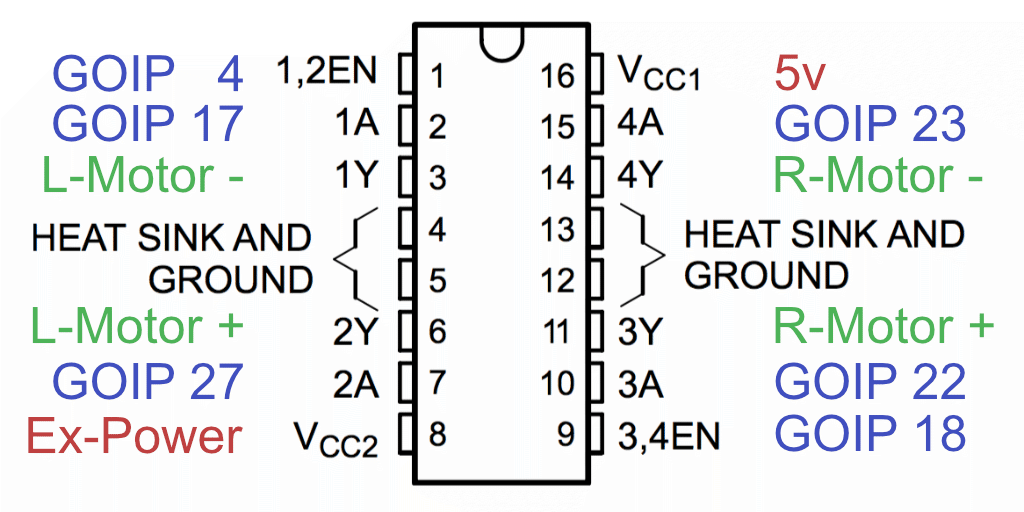
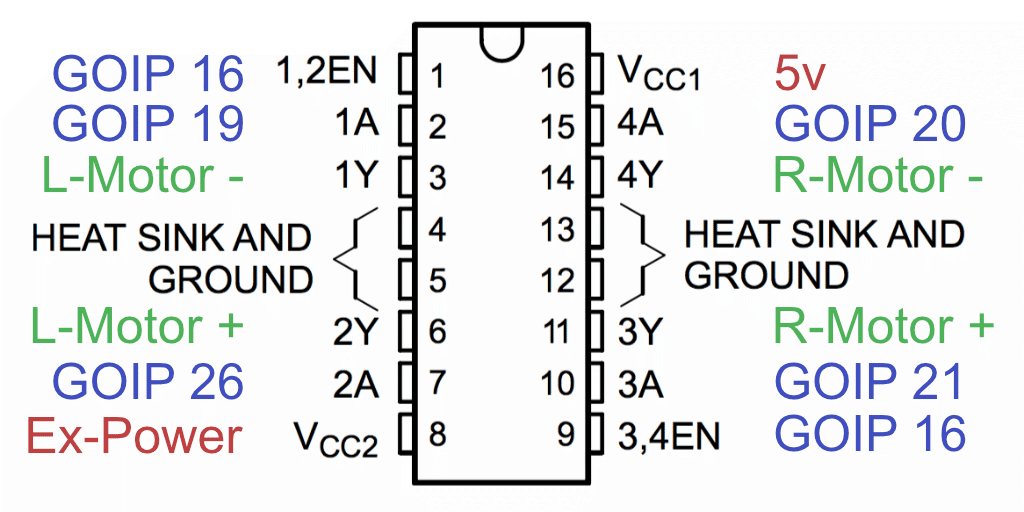
change l239 default wiring

diff --git a/src/pi-tank.js b/src/pi-tank.js
@@ -1,9 +1,10 @@
-var VERSION = '0.4.1',
+var VERSION = '0.5.0',
     Joystick = require('./joystick'),
     GPIO = require('pigpio').Gpio,
     L293 = {
-        // P1A, P2A, P12EN,
-        // P4A, P3A, P34EN
+        // P1A, P2A,
+        // P4A, P3A,
+        // EN
     },
     joystick,
     DIR = 0,
@@ -22,22 +23,19 @@ function PiTank(option) {
     PWM_MAX = option.pwmMax || 255;
     PWM_MIN = option.pwmMin || 60;
     PWM_DEG = (PWM_MAX - PWM_MIN) / 100;
-    L293.P1A = new GPIO(option.L293 && option.L293.P1A || 17, {
+    L293.P1A = new GPIO(option.L293 && option.L293.P1A || 19, {
         mode: GPIO.OUTPUT
     });
-    L293.P2A = new GPIO(option.L293 && option.L293.P2A || 27, {
+    L293.P2A = new GPIO(option.L293 && option.L293.P2A || 26, {
         mode: GPIO.OUTPUT
     });
-    L293.P12EN = new GPIO(option.L293 && option.L293.P12EN || 4, {
+    L293.P3A = new GPIO(option.L293 && option.L293.P3A || 21, {
         mode: GPIO.OUTPUT
     });
-    L293.P3A = new GPIO(option.L293 && option.L293.P3A || 22, {
+    L293.P4A = new GPIO(option.L293 && option.L293.P4A || 20, {
         mode: GPIO.OUTPUT
     });
-    L293.P4A = new GPIO(option.L293 && option.L293.P4A || 23, {
-        mode: GPIO.OUTPUT
-    });
-    L293.P34EN = new GPIO(option.L293 && option.L293.P34EN || 18, {
+    L293.EN = new GPIO(option.L293 && option.L293.EN || 16, {
         mode: GPIO.OUTPUT
     });
     if (option.joystick) {
@@ -77,12 +75,10 @@ fn.speed = function(speed) {
 
 fn.break = function() {
     if (BREAK) {
-        L293.P12EN.digitalWrite(1);
-        L293.P34EN.digitalWrite(1);
+        L293.EN.digitalWrite(1);
         console.log('!!! BREAK OFF !!!');
     } else {
-        L293.P12EN.digitalWrite(0);
-        L293.P34EN.digitalWrite(0);
+        L293.EN.digitalWrite(0);
         console.log('!!! BREAK ON !!!');
     }
     BREAK = !BREAK;
@@ -93,11 +89,11 @@ fn.break = function() {
 fn.off = function() {
     L293.P1A.digitalWrite(0);
     L293.P2A.digitalWrite(0);
-    L293.P12EN.digitalWrite(0);
 
     L293.P3A.digitalWrite(0);
     L293.P4A.digitalWrite(0);
-    L293.P34EN.digitalWrite(0);
+
+    L293.EN.digitalWrite(0);
     console.log('*** TANK OFF ***');
 }
 
